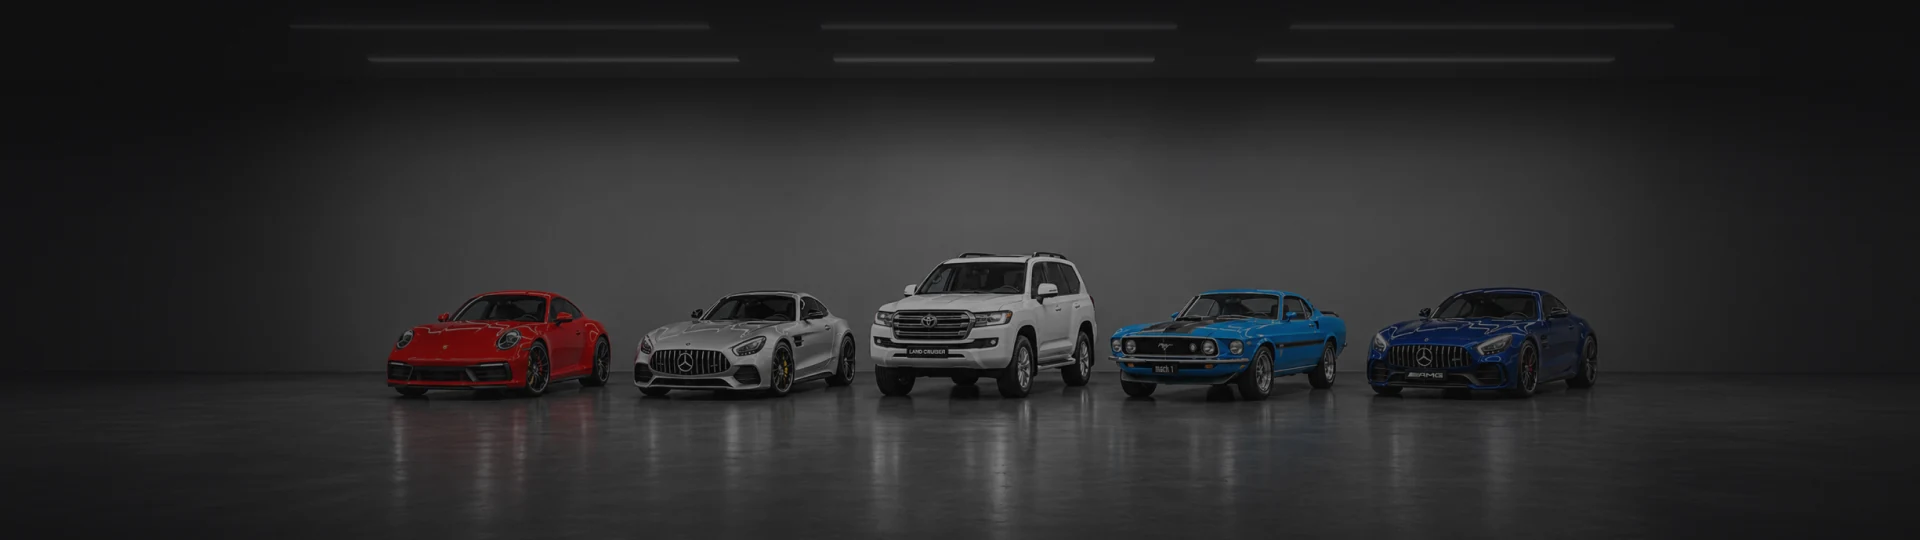
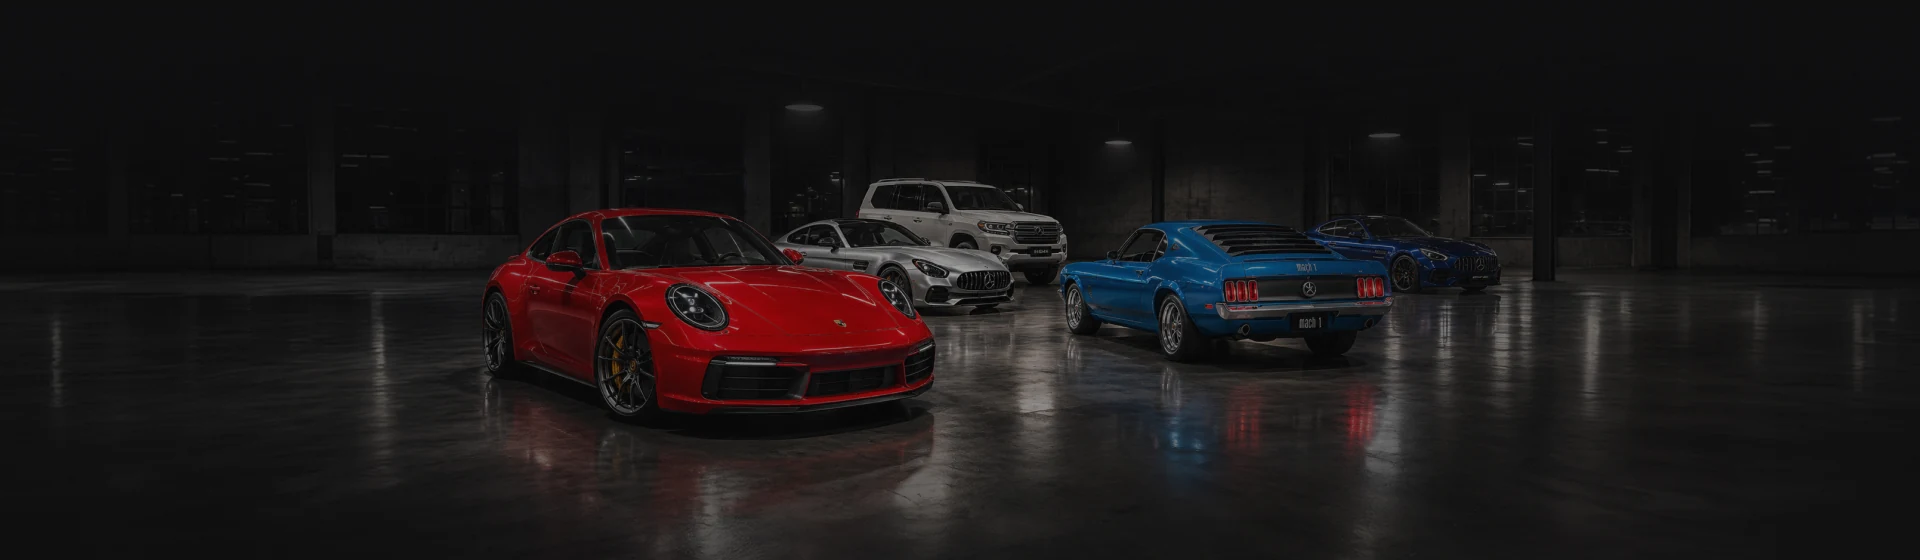
V2.2 · 7: new footer frame from Alex — industrial loft, cars at varied angles

diff --git a/src/styles/v2_2.css b/src/styles/v2_2.css
@@ -496,11 +496,11 @@
    ----------------------------------------------------------------------------- */
 :root[data-variant='v2_2'] .footer {
   --ft-w: 100vw;
-  padding-top: calc(var(--ft-w) / 3.556 + var(--s-5)); /* the links start below the frame, never on its floor */
+  padding-top: calc(var(--ft-w) / 3.429 + var(--s-5)); /* the links start below the frame, never on its floor */
 }
 
 :root[data-variant='v2_2'] .footer__bg {
-  aspect-ratio: 1920 / 540;
+  aspect-ratio: 1920 / 560;
 }
 
 :root[data-variant='v2_2'] .footer__bg img {
@@ -512,8 +512,8 @@
     linear-gradient(to bottom, transparent 0%, #000 6%, #000 80%, transparent 100%);
 }
 
-/* Phones: a tighter crop (2.6:1) — the five cars stay whole (they span 20–83% of
-   the frame, the crop keeps 13–87%) and read ~1.4× larger. */
+/* Phones: a tighter crop (2.6:1) — the cars stay whole (they span 26–72% of
+   the frame, the crop keeps 12–88%) and read ~1.3× larger. */
 @media (max-width: 767px) {
   :root[data-variant='v2_2'] .footer {
     padding-top: calc(var(--ft-w) / 2.6 + var(--s-5));
@@ -524,7 +524,7 @@
   }
 
   :root[data-variant='v2_2'] .footer__bg img {
-    object-position: 50% 62%;
+    object-position: 50% 40%;
   }
 }
 

diff --git a/src/data/photos.js b/src/data/photos.js
@@ -97,14 +97,15 @@ const photosV22 = {
   ...photosV2,
   footer: {
     ...photosV2.footer,
-    // Alex's own frame (LOGO/footer image.jpg, 2026-11-09; client: "the cars get
-    // lost"): five lit cars in a dark studio, cropped to a super-wide band. Its
-    // ground is the footer's own graphite, so it runs full-bleed without a seam.
+    // Alex's own frame (LOGO/footer image.jpg, 2026-11-09 23:42; client: "the cars
+    // get lost"): five lit cars at varied angles in a dark industrial loft, cropped
+    // to a super-wide band. Its ground is the footer's own graphite, so it runs
+    // full-bleed without a seam.
     file: 'footer-loft',
     variants: [1200, 1920],
     suffixLargest: true,
     width: 1920,
-    height: 540,
+    height: 560,
   },
   about: {
     ...photosV2.about,

diff --git a/docs/ASSETS.md b/docs/ASSETS.md
@@ -143,6 +143,6 @@ Client ticket "nov changes 9th.pdf" (AAN #48798). V2.2 is a layer on top of V2; 
 | hero-gen-mustang-blue (-960/-1600/-2560) | AI-EDITED (fal-ai/nano-banana-pro/edit) from hero-gen-911-red: car swapped for a Grabber Blue 1969 Ford Mustang Mach 1 | cropped 16:9; ceiling softbox dimmed (under the header's type); car moved 6% right | $0.15 |
 | about-911-amg-studio (-1200 / 2803) | supplied by Alex (LOGO/about.jpg, 2026-11-09), red Porsche 911 + blue Mercedes-AMG GT, dark studio — **in use** | low-chroma pixels neutralised; studio extended L 6% / R 40% / top+bottom to 16:10 for air | — |
 | about-gen-911-amg (-1200 / 4155) | (superseded by about-911-amg-studio) AI-GENERATED (fal-ai/nano-banana-pro): red Porsche 911 + blue Mercedes-AMG GT, graphite studio, cars left of the panel | low-chroma pixels neutralised (blue cast off the walls, paint kept); studio extended L 6% / R 45% / T 16% / B 23% for air; floor vignette | $0.15 (+ $0.15 variant not used) |
-| footer-loft (-1200 / -1920) | supplied by Alex (LOGO/footer image.jpg, 2026-11-09): five lit cars in a dark studio | cropped to a 1920×540 band (light strips at the top, car row at 52–74%) | — |
+| footer-loft (-1200 / -1920) | supplied by Alex (LOGO/footer image.jpg, 2026-11-09 23:42): five lit cars at varied angles in a dark industrial loft | cropped to a 1920×560 band (car row at 38–72%, reflections below) | — |
 | carloft-logo-horizontal / -horizontal-color / -vertical / -vertical-color / -name (.svg) | client vector masters, LOGO/ (Alex, 2026-11-09) | copied unchanged | — |
 | carloft-logo-*-glow.png | rendered from the masters in the browser (outer-contour neon) | currently switched off (Alex: "убери glow") | — |
